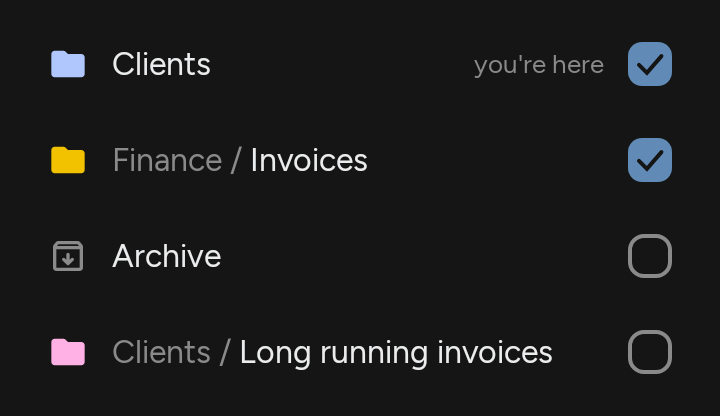
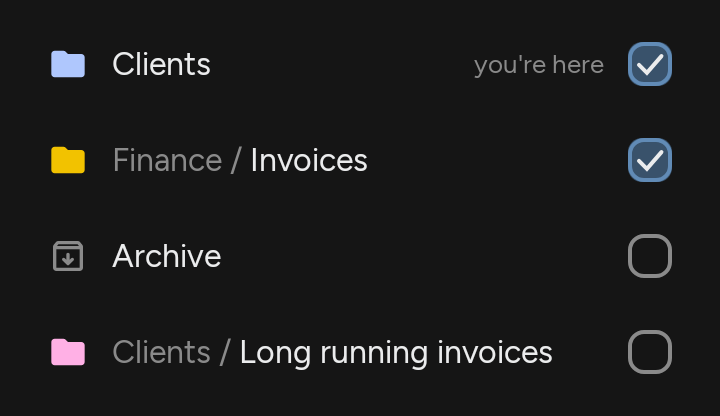
fix(designsystem): keep the date chooser's close label and new pick marks
- Name the date picker's close button "Close date chooser" again, as screen readers and tests expect.
- Record the pick row screenshots with the selected-chip check and radio colors.

Changed region(s): [[0.8556, 0.0938, 0.9472, 0.2188], [0.8556, 0.3438, 0.9472, 0.4375]]

diff --git a/designsystem/src/commonMain/kotlin/com/otus/designsystem/components/DateWheelPicker.kt b/designsystem/src/commonMain/kotlin/com/otus/designsystem/components/DateWheelPicker.kt
@@ -174,7 +174,7 @@ internal fun DatePickerHeading(
             fontSize = SheetTokens.titleSize,
             fontWeight = FontWeight.SemiBold,
         )
-        IconButton("Close", onDismiss) { Symbol(Res.drawable.symbol_close) }
+        IconButton("Close date chooser", onDismiss) { Symbol(Res.drawable.symbol_close) }
     }
     Text(
         note,
